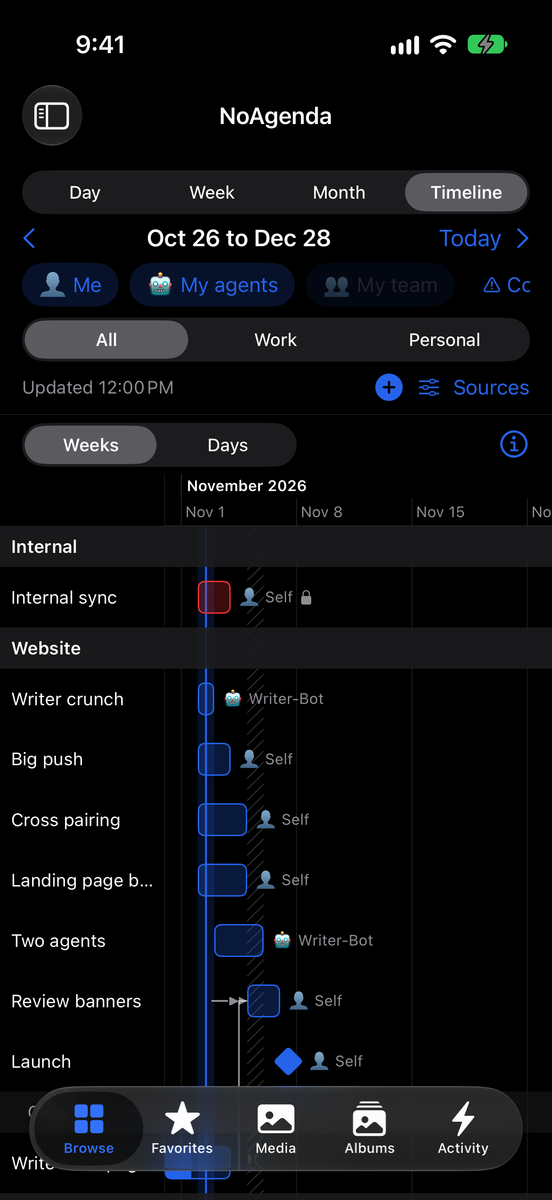
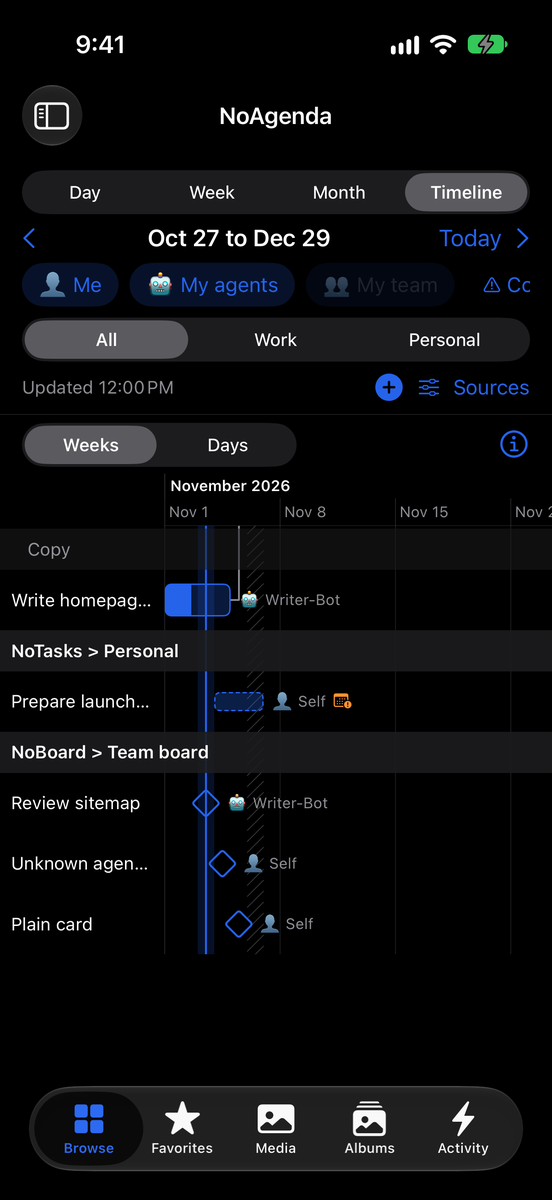
docs(ios): NoAgenda Timeline round 2 screenshots (lower rows clear of the tab bar) and notes; the UI test saves one lower-rows shot

diff --git a/Tests/NextcloudUITests/NoDriveAgendaTimelineUITests.swift b/Tests/NextcloudUITests/NoDriveAgendaTimelineUITests.swift
@@ -82,7 +82,6 @@ final class NoDriveAgendaTimelineUITests: XCTestCase {
             XCTFail("no bar is on the screen at the end of the Timeline")
         }
         XCTAssertTrue(app.descendants(matching: .any).matching(NSPredicate(format: "identifier BEGINSWITH 'agendaTimelineGroup-NoBoard'")).firstMatch.exists, "the board group is not in the lower rows")
-        save("agenda-timeline-bottom")
     }
 
     func test2TimelineDays() throws {

diff --git a/docs/testing.md b/docs/testing.md
@@ -37,7 +37,7 @@ NoAgenda server, NoAgenda replay, Server login, the 9 Simulator screens shards, 
 finders and on test strings that later commits repaired (`41392069569`: a test text held a literal line break, fixed by `ab1cda20d5`). The
 merge to `main` adds only documents on top of that commit; the same checks run again on the docs commit and on `main`.
 
-NoAgenda Timeline (feature `feature/noagenda-timeline`): run [41497689323](https://github.com/NouraX-ORG/nodrive-ios/actions/runs/41497689323), commit `a0e2e25f07` (on top of `main` at `ead7f3d791`, so no merge was needed), all 18 jobs green (Branding gate, Build and unit tests, NoAgenda server, NoAgenda replay, Server login, the 11 Simulator screens shards, Simulator screens report). Earlier runs of the branch failed on a missing switch case (`41475201488`), on the seed check (NoGantt answers `EA` for a finish-to-start, `41475201488`), on two arithmetic expectations of the new unit tests, on the replay check that expected the old scenario count (`41487370522`), and in the screenshot the name column did not follow the scroll (fixed with `onScrollGeometryChange`, `f0548541a7`). The merge to `main` adds only documents on top of the code commit.
+NoAgenda Timeline round 2 (review fixes; run [41562291822](https://github.com/NouraX-ORG/nodrive-ios/actions/runs/41562291822), code commit `067f488940`; an earlier run of `e28ef24c3c` failed in the two Timeline shards because an empty banner area took 140 points of the chart and the finder's drags missed the chart, fixed in `067f488940`; the last commit changes only documents, the screenshots and one screenshot call of the UI test). First round: NoAgenda Timeline (feature `feature/noagenda-timeline`): run [41497689323](https://github.com/NouraX-ORG/nodrive-ios/actions/runs/41497689323), commit `a0e2e25f07` (on top of `main` at `ead7f3d791`, so no merge was needed), all 18 jobs green (Branding gate, Build and unit tests, NoAgenda server, NoAgenda replay, Server login, the 11 Simulator screens shards, Simulator screens report). Earlier runs of the branch failed on a missing switch case (`41475201488`), on the seed check (NoGantt answers `EA` for a finish-to-start, `41475201488`), on two arithmetic expectations of the new unit tests, on the replay check that expected the old scenario count (`41487370522`), and in the screenshot the name column did not follow the scroll (fixed with `onScrollGeometryChange`, `f0548541a7`). The merge to `main` adds only documents on top of the code commit.
 
 Reference run: **[40206804804](https://github.com/NouraX-ORG/nodrive-ios/actions/runs/40206804804)**
 on `main` (commit `b03563c3c9`), all 3 jobs green. Xcode 27.1 (build 27A9275), runner image
@@ -340,13 +340,13 @@ the Files root while a finder looked for the list); the finders now scroll by a 
 ## NoAgenda Timeline (step 3)
 
 See `docs/noagenda.md` ("Timeline"). Screenshots in `docs/screenshots/ios/agenda-timeline-light/` and `agenda-timeline-dark/` (1200 px copies from run
-[41497689323](https://github.com/NouraX-ORG/nodrive-ios/actions/runs/41497689323), commit `a0e2e25f07`, iPhone 17, iOS 27.0, Ali against the CI stand-in that replays the real server's answers). Looked at for
+[41562291822](https://github.com/NouraX-ORG/nodrive-ios/actions/runs/41562291822), commit `067f488940`, iPhone 17, iOS 27.0, Ali against the CI stand-in that replays the real server's answers). Looked at for
 Nextcloud's name, logo, colours and links: none; the accent is cobalt.
 
 | Screen | light | dark |
 |---|---|---|
-| Timeline: project, phase, bars with % done, agent, arrow, diamonds, shaded today | [agenda-timeline](screenshots/ios/agenda-timeline-light/agenda-timeline.png) | [agenda-timeline](screenshots/ios/agenda-timeline-dark/agenda-timeline.png) |
-| Top of the Timeline | [agenda-timeline-top](screenshots/ios/agenda-timeline-light/agenda-timeline-top.png) | [agenda-timeline-top](screenshots/ios/agenda-timeline-dark/agenda-timeline-top.png) |
+| Lower rows of the Timeline, scrolled to the end and clear of the tab bar: phase "Copy", the 40 % bar (filled part) done by Writer-Bot with its arrow, the dashed to-do bar with the day-off mark, the NoBoard diamonds, shaded today | [agenda-timeline](screenshots/ios/agenda-timeline-light/agenda-timeline.png) | [agenda-timeline](screenshots/ios/agenda-timeline-dark/agenda-timeline.png) |
+| Top of the Timeline: project, bars with the agent after them, arrow, shaded today | [agenda-timeline-top](screenshots/ios/agenda-timeline-light/agenda-timeline-top.png) | [agenda-timeline-top](screenshots/ios/agenda-timeline-dark/agenda-timeline-top.png) |
 | A stub tapped: "After: Publish banners (Sara)" | [agenda-timeline-stub](screenshots/ios/agenda-timeline-light/agenda-timeline-stub.png) | [agenda-timeline-stub](screenshots/ios/agenda-timeline-dark/agenda-timeline-stub.png) |
 | Days zoom | [agenda-timeline-days](screenshots/ios/agenda-timeline-light/agenda-timeline-days.png) | [agenda-timeline-days](screenshots/ios/agenda-timeline-dark/agenda-timeline-days.png) |
 | Legend | [agenda-timeline-legend](screenshots/ios/agenda-timeline-light/agenda-timeline-legend.png) | [agenda-timeline-legend](screenshots/ios/agenda-timeline-dark/agenda-timeline-legend.png) |
@@ -357,7 +357,7 @@ Nextcloud's name, logo, colours and links: none; the accent is cobalt.
 | Feature | Who | Result | Evidence |
 |---|---|---|---|
 | Timeline unit tests: date and x at both zooms, range, group and row order, what is drawn, shapes, the four arrow types with lags and routes, stubs, shading shares, hatch days, Move by (same command as the sheet, summer time, to-do, locked), spoken labels, strings and symbols, the person on a predecessor | CI | pass | run 41497689323, job "Build and unit tests": 6 suites `NoDrive NoAgenda Timeline ...` passed |
-| Timeline in the simulator, light and dark (6 tests each): groups and phase, the 40 % bar done by Writer-Bot, the arrow, the stub with its text, milestone, dated card and to-do bar, a to-do without a start is not drawn; Days zoom; a viewer task is locked with its reason and the Team chip is dimmed; legend and range arrows; the editor with Move by -7, -1, +1, +7; a move saved with the "Moved to" toast | CI | pass (stand-in) | shards `agenda-timeline`, `agenda-timeline-dark`: `timeline: xcodebuild exit 0, passed tests 6 of 6`; 9 screenshots per colour mode |
+| Timeline in the simulator, light and dark (6 tests each): groups and phase, the 40 % bar done by Writer-Bot, the arrow, the stub with its text, milestone, dated card and to-do bar, a to-do without a start is not drawn; Days zoom; a viewer task is locked with its reason and the Team chip is dimmed; legend and range arrows; the editor with Move by -7, -1, +1, +7; a move saved with the "Moved to" toast | CI | pass (stand-in) | shards `agenda-timeline`, `agenda-timeline-dark`: `timeline: xcodebuild exit 0, passed tests 6 of 6`; 9 screenshots per colour mode (the test scrolls to the lower rows and checks that the last row is clear of the tab bar) |
 | The Timeline move asks NoGantt to move the followers (`adjust_lag`) and writes nothing else | CI | pass | `agenda-edit-check.py --timeline`: `0 problem(s)` on the stand-in log (a NoGantt `PUT` with `moves_dates` and `adjust_lag`) |
 | A Timeline move (+7 days) and its Undo on a real Nextcloud 35.0.2 with nc_gantt 2.4.1: start a week later, the end a week later or the working day before, the dependent task moved, Undo puts all back | CI | pass (throwaway server) | job "NoAgenda replay": `timeline-move`, `timeline-undo` rows PASS; the stand-in answers like the real server |
 | The seed has the Timeline data on the real server: "Review banners" follows two tasks, a task in a phase, a dated milestone, a to-do with start and due | CI | pass (throwaway server) | job "NoAgenda server", `agenda-server.md`: the four `timeline seed` rows PASS |
